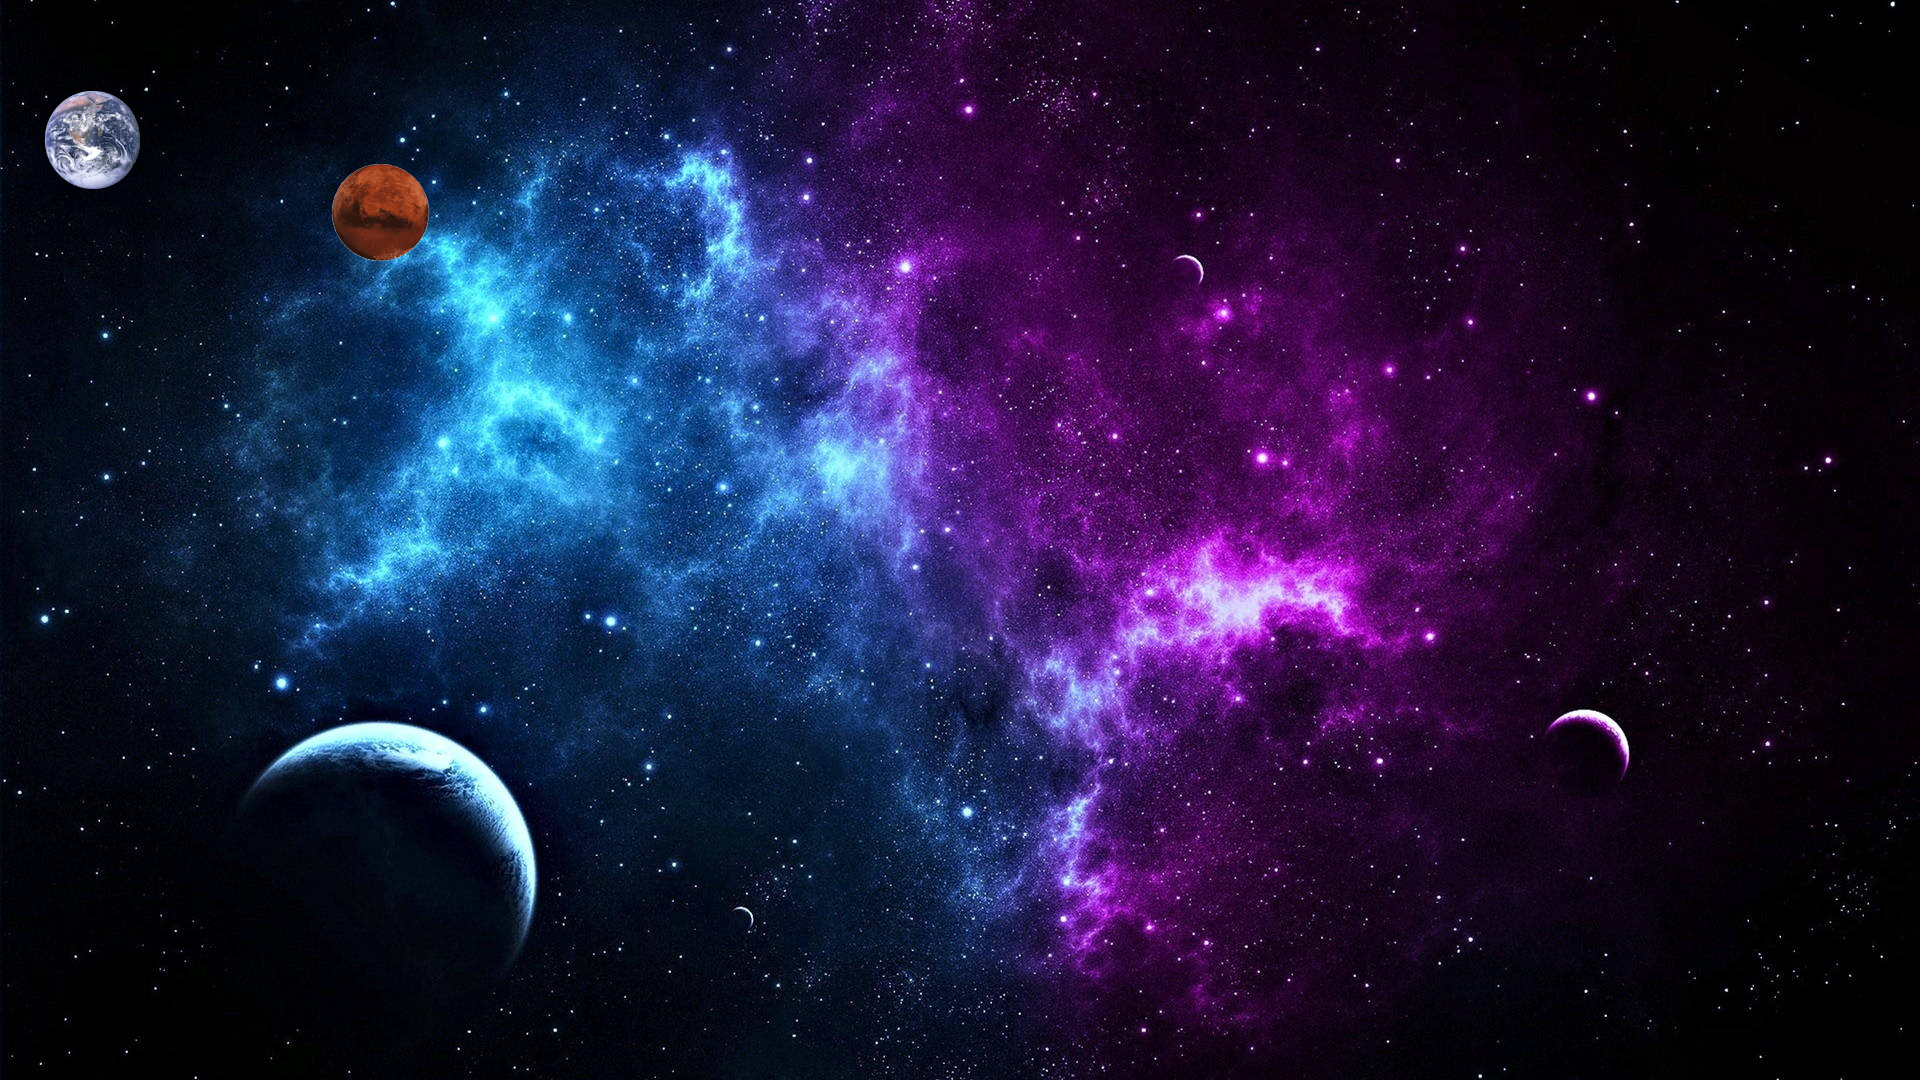
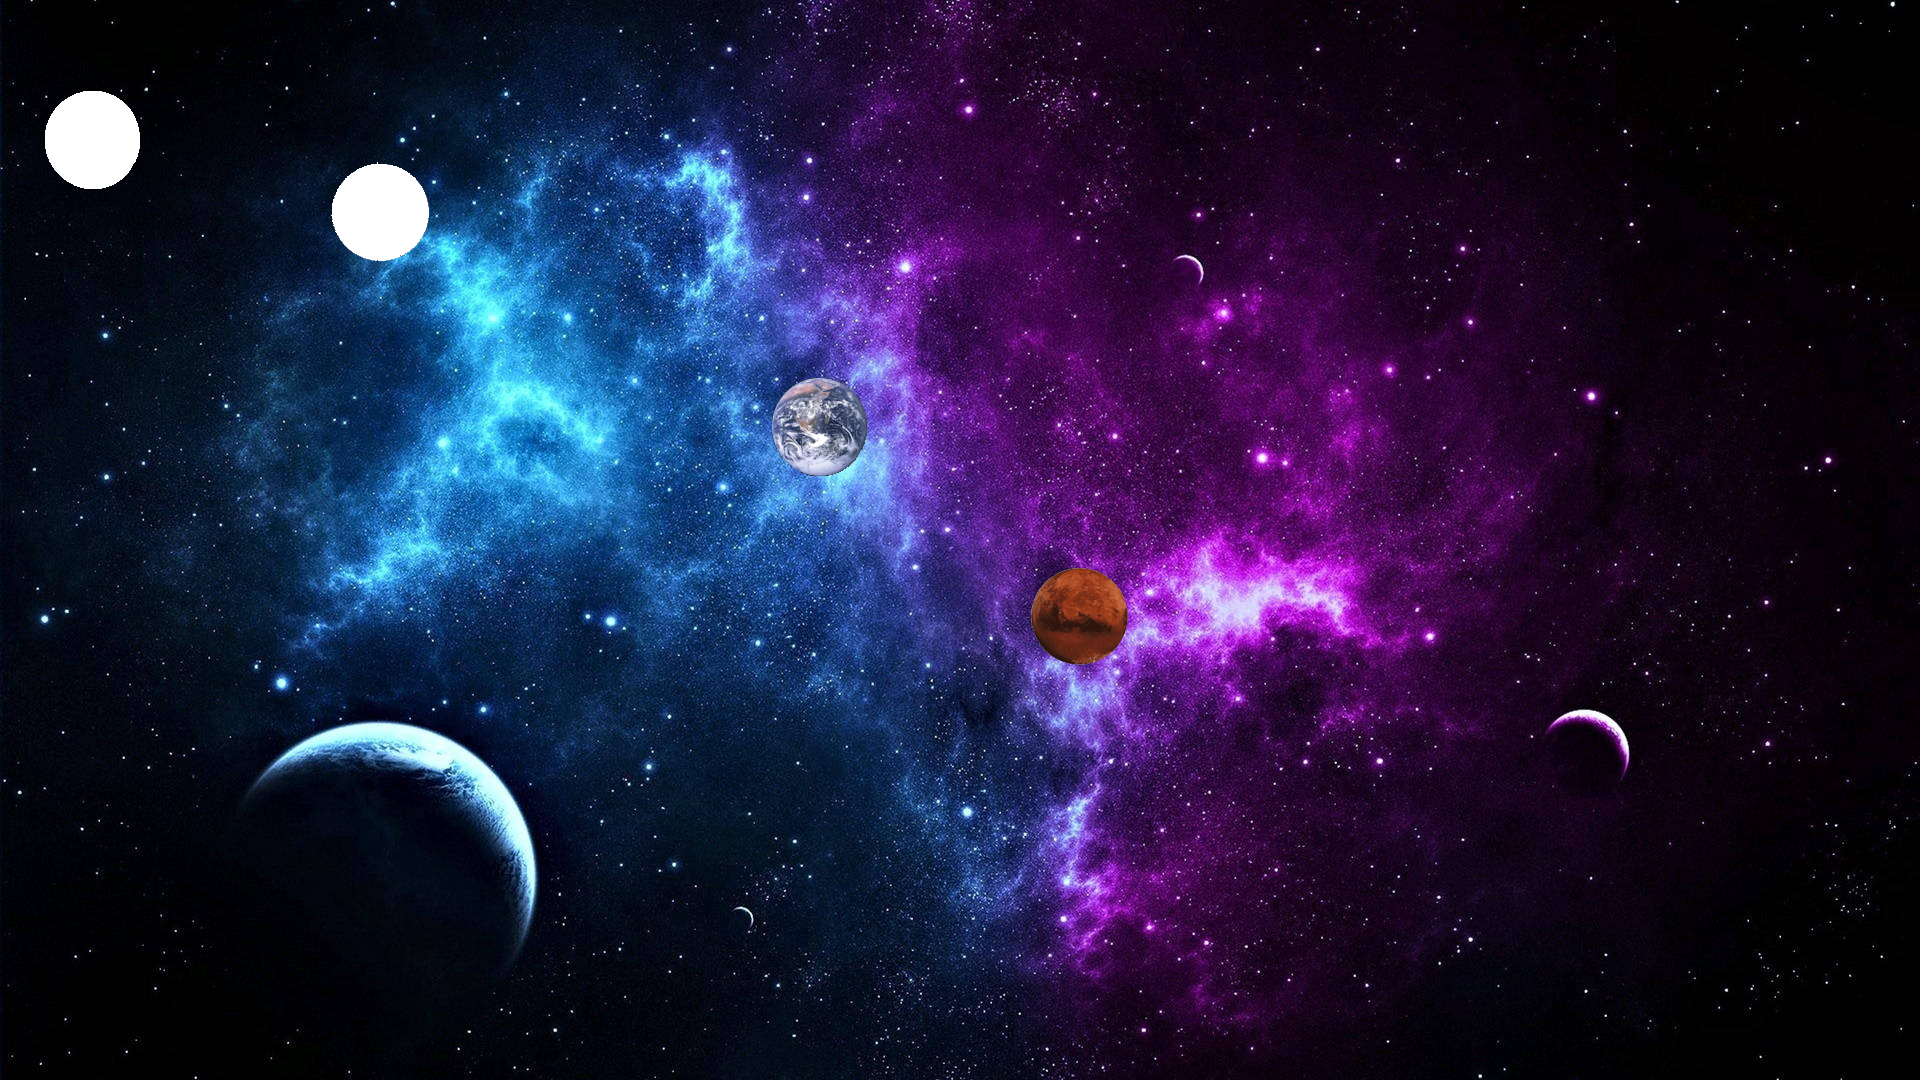
fix: se corrigen los margenes de la pantalla travel

diff --git a/css/app.css b/css/app.css
@@ -381,11 +381,23 @@ h2,
 }
 
 .map-view {
-    height: 55vh;
+    height: 45vh;
     position: relative;
     overflow: hidden;
+    display: flex;
+    justify-content: center;
+    align-items: center;
 }
 
+.map-view img[src*="earth.png"] {
+    position: absolute;
+    top: 50%;
+    left: 50%;
+    transform: translate(-50%, -50%);
+    min-width: 500px;
+    height: auto;
+    z-index: 1;
+}
 
 .floating-chip {
     position: absolute;
@@ -398,25 +410,34 @@ h2,
     color: white;
     filter: drop-shadow(var(--chip-glow));
     pointer-events: none;
+    z-index: 5;
+    white-space: nowrap;
 }
 
 .chip-earth {
-    top: 20%;
-    left: 15%;
+    top: 50%;
+    left: 50%;
+    margin-top: -120px;
+    margin-left: -150px;
 }
 
 .chip-mars {
-    top: 40%;
-    right: 15%;
+    top: 50%;
+    left: 50%;
+    margin-top: 50px;
+    margin-left: 100px;
 }
 
 .route-arc {
     position: absolute;
-    top: 15%;
-    left: 10%;
-    width: 80%;
-    height: 60%;
+    top: 50%;
+    left: 50%;
+    transform: translate(-50%, -50%);
+    width: 400px;
+    height: 300px;
+    z-index: 3;
     opacity: 0.5;
+    pointer-events: none;
 }
 
 .bottom-sheet {
@@ -456,9 +477,9 @@ h2,
 }
 
 #sheet-toggle:checked~.bottom-sheet {
-        height: auto;
-        max-height: none;
-        overflow-y: visible;
+    height: auto;
+    max-height: none;
+    overflow-y: visible;
     }
 .sheet-collapsed-content {
     display: flex;
@@ -469,11 +490,11 @@ h2,
 
 .vehicle-list {
     display: none;
-        margin-top: 10px;
-        list-style: none;
-        padding: 0;
-        overflow-y: visible;
-        height: auto;
+    margin-top: 10px;
+    list-style: none;
+    padding: 0;
+    overflow-y: visible;
+    height: auto;
     }
 
 #sheet-toggle:checked~.bottom-sheet .sheet-collapsed-content {
@@ -1071,6 +1092,12 @@ h2,
 .receipt-date {
     font-size: 0.9rem;
     opacity: 0.5;
+}
+
+.receipt-name {
+    font-size: 1.0rem;
+    opacity: 0.5;
+    margin-top: -30px;
 }
 
 .receipt-divider {

diff --git a/screens/travel.html b/screens/travel.html
@@ -8,15 +8,23 @@
   </head>
   <body>
     <div class="container page-entrance">
-      <header class="map-view">
         <header class="map-view">
-          <a href="home.html" class="btn-back-floating" aria-label="Volver a Inicio">
-                <span aria-hidden="true">←</span>
-            </a>
-          </a>
+    <a href="home.html" class="btn-back-floating" aria-label="Volver a Inicio">
+        <span aria-hidden="true">←</span>
+    </a>
+    
+    <img src="../assets/img/earth.png" alt="Earth" />
 
-          <img src="../assets/img/earth.png" alt="Earth" />
-        </header>
+    <div class="floating-chip chip-earth">
+        <span>Earth</span>
+    </div>
+    <div class="floating-chip chip-mars">
+        <span>Mars</span>
+    </div>
+
+    <svg class="route-arc" viewBox="0 0 400 300">
+        <path d="M50 30 Q 200 50, 350 230" fill="none" stroke="white" stroke-width="2" stroke-dasharray="8 8" />
+    </svg>
         <img src="../assets/img/earth.png" alt="Earth" />
         <div class="floating-chip chip-earth">
           <span>Earth</span>
@@ -24,16 +32,6 @@
         <div class="floating-chip chip-mars">
           <span>Mars</span>
         </div>
-
-        <svg class="route-arc" viewBox="0 0 400 300">
-          <path
-            d="M50 30 Q 200 50, 350 150"
-            fill="none"
-            stroke="rgba(255,255,255,0.3)"
-            stroke-width="2"
-            stroke-dasharray="8 8"
-          />
-        </svg>
       </header>
 
       <main class="travel-content visually-hidden">

diff --git a/screens/receipt.html b/screens/receipt.html
@@ -14,6 +14,7 @@
               <span class="arrow-icon">←</span>
             </a>
           </div>
+          <p class="receipt-name">Receipt</p>
           <div class="receipt-total">$859.50</div>
           <p class="airline-name">SpaceX Airline</p>
           <p class="receipt-date">15th Oct 2024, 08:15 AM</p>
